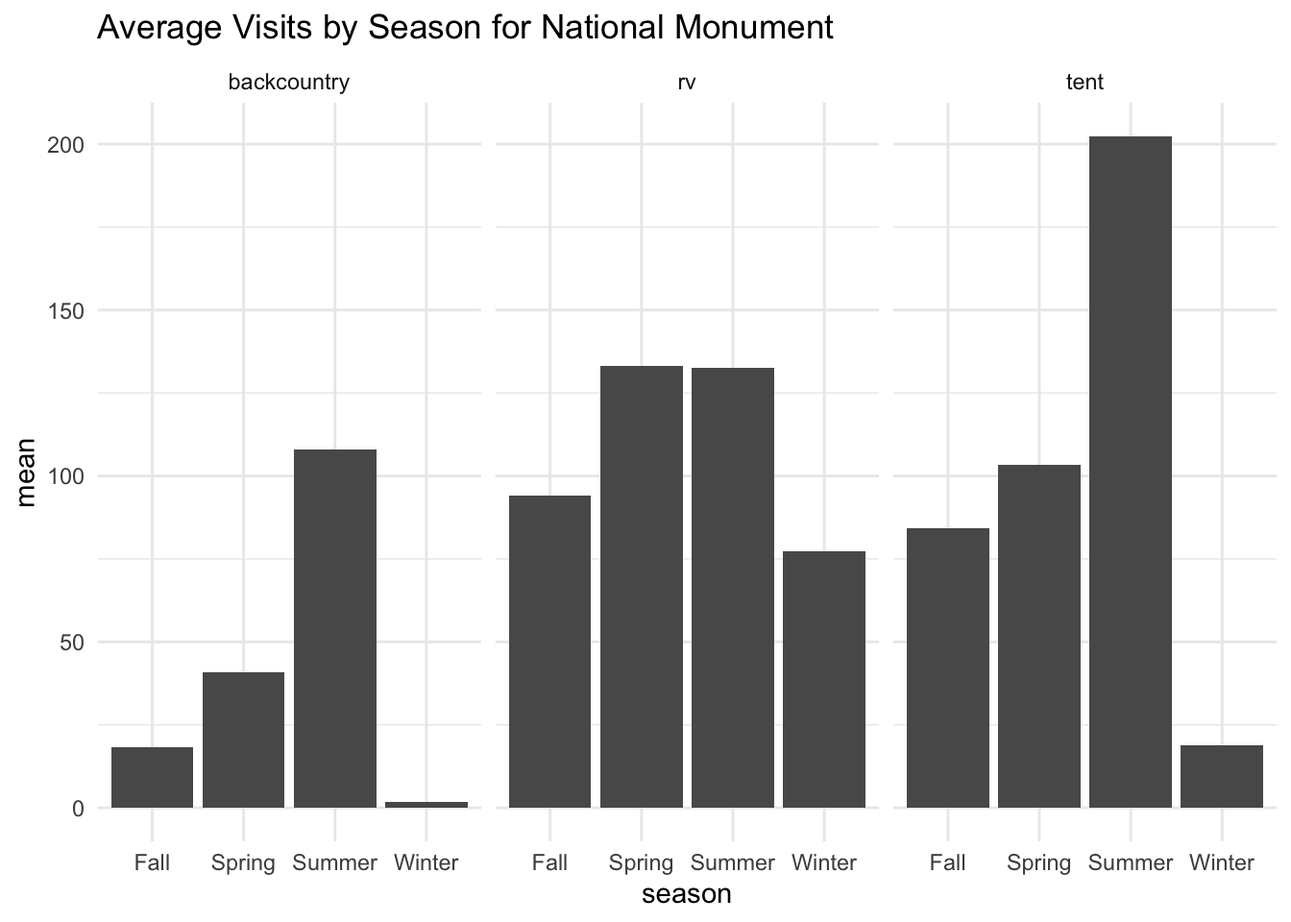
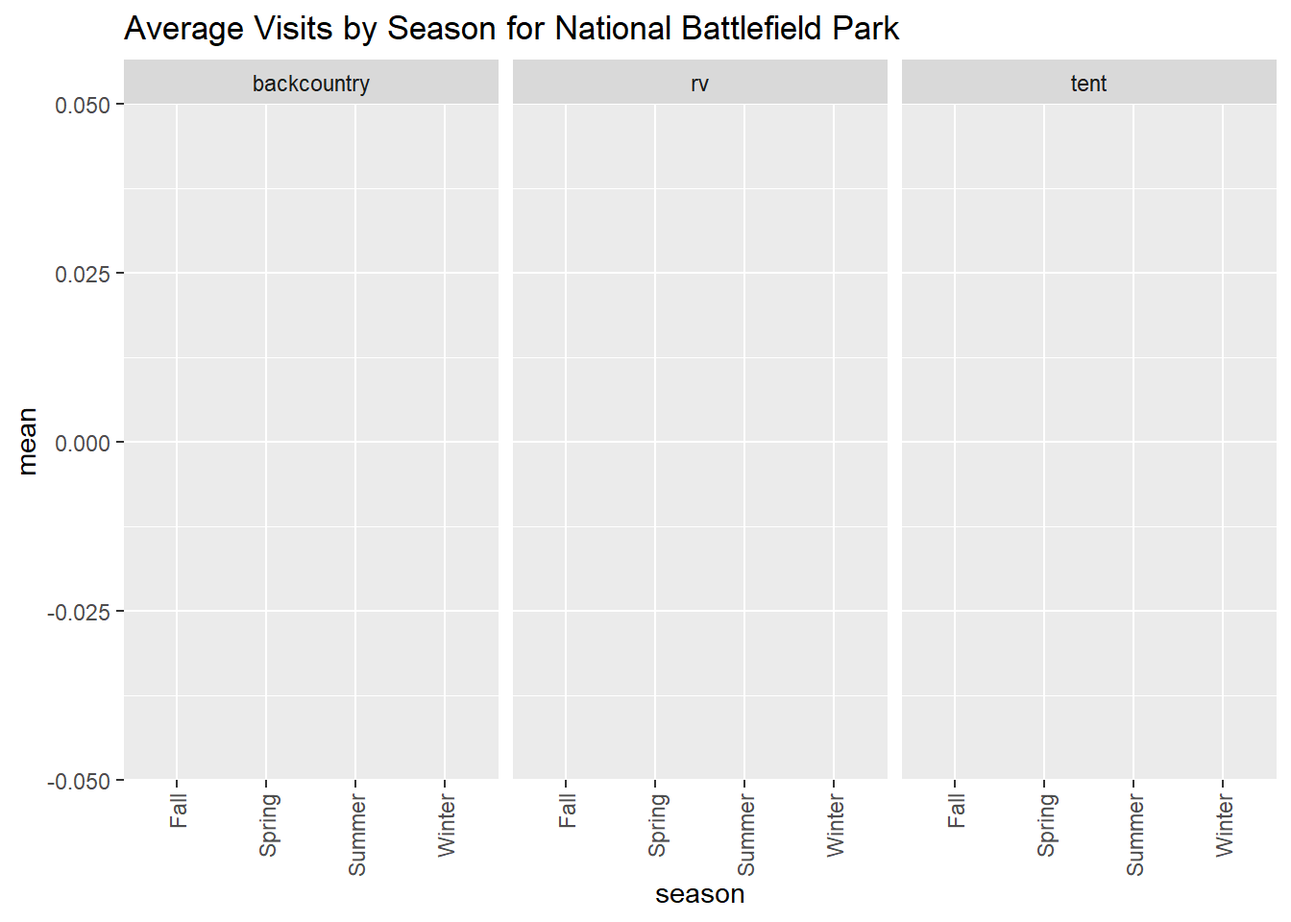
making code more readable

diff --git a/mos2128.html b/mos2128.html
@@ -315,6 +315,8 @@ visitation_data &lt;-
 ## ℹ If a many-to-many relationship is expected, set `relationship =
 ##   &quot;many-to-many&quot;` to silence this warning.</code></pre>
 </div>
+<div id="trends-across-time" class="section level1">
+<h1>Trends across Time</h1>
 <div id="total-trend-by-park-type-across-months" class="section level2">
 <h2>Total Trend by Park Type Across Months</h2>
 <pre class="r"><code>visitation_data %&gt;% 
@@ -327,8 +329,8 @@ plot_ly(x = ~as.factor(month), y = ~total_visitation, type = &quot;scatter&quot;
 ## Returning the palette you asked for with that many colors
 ## Warning in RColorBrewer::brewer.pal(N, &quot;Set2&quot;): n too large, allowed maximum for palette Set2 is 8
 ## Returning the palette you asked for with that many colors</code></pre>
-<div class="plotly html-widget html-fill-item" id="htmlwidget-2bdedae2436f8b7b46d1" style="width:672px;height:480px;"></div>
-<script type="application/json" data-for="htmlwidget-2bdedae2436f8b7b46d1">{"x":{"visdat":{"d2a051065b46":["function () ","plotlyVisDat"]},"cur_data":"d2a051065b46","attrs":{"d2a051065b46":{"x":{},"y":{},"mode":"lines","color":{},"alpha_stroke":1,"sizes":[10,100],"spans":[1,20],"type":"scatter"}},"layout":{"margin":{"b":40,"l":60,"t":25,"r":10},"xaxis":{"domain":[0,1],"automargin":true,"title":"as.factor(month)","type":"category","categoryorder":"array","categoryarray":["1","2","3","4","5","6","7","8","9","10","11","12"]},"yaxis":{"domain":[0,1],"automargin":true,"title":"total_visitation"},"hovermode":"closest","showlegend":true},"source":"A","config":{"modeBarButtonsToAdd":["hoverclosest","hovercompare"],"showSendToCloud":false},"data":[{"x":["1","2","3","4","5","6","7","8","9","10","11","12"],"y":[0,0,0,599,10356,16227,29363,30037,23941,14894,564,0],"mode":"lines","type":"scatter","name":"International Historic Site","marker":{"color":"rgba(102,194,165,1)","line":{"color":"rgba(102,194,165,1)"}},"textfont":{"color":"rgba(102,194,165,1)"},"error_y":{"color":"rgba(102,194,165,1)"},"error_x":{"color":"rgba(102,194,165,1)"},"line":{"color":"rgba(102,194,165,1)"},"xaxis":"x","yaxis":"y","frame":null},{"x":["1","2","3","4","5","6","7","8","9","10","11","12"],"y":[1835700,2000437,2732979,3477536,4231458,4625124,5724189,4699989,4010558,3979299,2628913,2097289],"mode":"lines","type":"scatter","name":"National Battlefield","marker":{"color":"rgba(181,176,137,1)","line":{"color":"rgba(181,176,137,1)"}},"textfont":{"color":"rgba(181,176,137,1)"},"error_y":{"color":"rgba(181,176,137,1)"},"error_x":{"color":"rgba(181,176,137,1)"},"line":{"color":"rgba(181,176,137,1)"},"xaxis":"x","yaxis":"y","frame":null},{"x":["1","2","3","4","5","6","7","8","9","10","11","12"],"y":[3035709,3414777,5457944,6826232,6160369,6226220,6536226,6026670,5931406,5497269,3981241,3068093],"mode":"lines","type":"scatter","name":"National Battlefield Park","marker":{"color":"rgba(233,153,110,1)","line":{"color":"rgba(233,153,110,1)"}},"textfont":{"color":"rgba(233,153,110,1)"},"error_y":{"color":"rgba(233,153,110,1)"},"error_x":{"color":"rgba(233,153,110,1)"},"line":{"color":"rgba(233,153,110,1)"},"xaxis":"x","yaxis":"y","frame":null},{"x":["1","2","3","4","5","6","7","8","9","10","11","12"],"y":[9258412,10193685,15294246,17856912,20207151,22885909,27636356,23779621,16401077,18356705,11748190,10769699],"mode":"lines","type":"scatter","name":"National Historic Site","marker":{"color":"rgba(232,146,123,1)","line":{"color":"rgba(232,146,123,1)"}},"textfont":{"color":"rgba(232,146,123,1)"},"error_y":{"color":"rgba(232,146,123,1)"},"error_x":{"color":"rgba(232,146,123,1)"},"line":{"color":"rgba(232,146,123,1)"},"xaxis":"x","yaxis":"y","frame":null},{"x":["1","2","3","4","5","6","7","8","9","10","11","12"],"y":[31239006,33061664,48684559,61995380,67522052,72278607,90818155,76557594,61023888,60702448,43984138,35531636],"mode":"lines","type":"scatter","name":"National Historical Park","marker":{"color":"rgba(191,154,166,1)","line":{"color":"rgba(191,154,166,1)"}},"textfont":{"color":"rgba(191,154,166,1)"},"error_y":{"color":"rgba(191,154,166,1)"},"error_x":{"color":"rgba(191,154,166,1)"},"line":{"color":"rgba(191,154,166,1)"},"xaxis":"x","yaxis":"y","frame":null},{"x":["1","2","3","4","5","6","7","8","9","10","11","12"],"y":[718521,986098,961710,1005468,2684380,7072850,15230514,13907841,5915613,3446764,716673,503122],"mode":"lines","type":"scatter","name":"National Lakeshore","marker":{"color":"rgba(147,159,203,1)","line":{"color":"rgba(147,159,203,1)"}},"textfont":{"color":"rgba(147,159,203,1)"},"error_y":{"color":"rgba(147,159,203,1)"},"error_x":{"color":"rgba(147,159,203,1)"},"line":{"color":"rgba(147,159,203,1)"},"xaxis":"x","yaxis":"y","frame":null},{"x":["1","2","3","4","5","6","7","8","9","10","11","12"],"y":[26557811,27010352,64765560,86562672,90202453,86519021,89327334,75466667,58890368,61033100,46581490,31888659],"mode":"lines","type":"scatter","name":"National Memorial","marker":{"color":"rgba(187,151,199,1)","line":{"color":"rgba(187,151,199,1)"}},"textfont":{"color":"rgba(187,151,199,1)"},"error_y":{"color":"rgba(187,151,199,1)"},"error_x":{"color":"rgba(187,151,199,1)"},"line":{"color":"rgba(187,151,199,1)"},"xaxis":"x","yaxis":"y","frame":null},{"x":["1","2","3","4","5","6","7","8","9","10","11","12"],"y":[5298439,5716701,9060144,11088267,12494668,12391930,13277112,10872010,9658933,10369806,7722062,5650839],"mode":"lines","type":"scatter","name":"National Military Park","marker":{"color":"rgba(222,141,196,1)","line":{"color":"rgba(222,141,196,1)"}},"textfont":{"color":"rgba(222,141,196,1)"},"error_y":{"color":"rgba(222,141,196,1)"},"error_x":{"color":"rgba(222,141,196,1)"},"line":{"color":"rgba(222,141,196,1)"},"xaxis":"x","yaxis":"y","frame":null},{"x":["1","2","3","4","5","6","7","8","9","10","11","12"],"y":[18255494,19593353,30867609,36687183,42767694,57835315,65449387,58924783,42811746,35270827,25462313,22950541],"mode":"lines","type":"scatter","name":"National Monument","marker":{"color":"rgba(217,164,165,1)","line":{"color":"rgba(217,164,165,1)"}},"textfont":{"color":"rgba(217,164,165,1)"},"error_y":{"color":"rgba(217,164,165,1)"},"error_x":{"color":"rgba(217,164,165,1)"},"line":{"color":"rgba(217,164,165,1)"},"xaxis":"x","yaxis":"y","frame":null},{"x":["1","2","3","4","5","6","7","8","9","10","11","12"],"y":[59236940,62808138,97933207,113157293,158894664,232320856,297636201,266671400,201579579,154105436,86602317,67460177],"mode":"lines","type":"scatter","name":"National Park","marker":{"color":"rgba(191,196,121,1)","line":{"color":"rgba(191,196,121,1)"}},"textfont":{"color":"rgba(191,196,121,1)"},"error_y":{"color":"rgba(191,196,121,1)"},"error_x":{"color":"rgba(191,196,121,1)"},"line":{"color":"rgba(191,196,121,1)"},"xaxis":"x","yaxis":"y","frame":null},{"x":["1","2","3","4","5","6","7","8","9","10","11","12"],"y":[30285562,31606136,43107457,58279104,68077913,83109235,89097710,86164579,77431897,78627098,58225525,37576708],"mode":"lines","type":"scatter","name":"National Parkway","marker":{"color":"rgba(178,216,80,1)","line":{"color":"rgba(178,216,80,1)"}},"textfont":{"color":"rgba(178,216,80,1)"},"error_y":{"color":"rgba(178,216,80,1)"},"error_x":{"color":"rgba(178,216,80,1)"},"line":{"color":"rgba(178,216,80,1)"},"xaxis":"x","yaxis":"y","frame":null},{"x":["1","2","3","4","5","6","7","8","9","10","11","12"],"y":[5878090,6674191,7270922,6687822,6626398,6514302,6863025,5528451,5096785,5924038,6572170,6052652],"mode":"lines","type":"scatter","name":"National Preserve","marker":{"color":"rgba(215,217,67,1)","line":{"color":"rgba(215,217,67,1)"}},"textfont":{"color":"rgba(215,217,67,1)"},"error_y":{"color":"rgba(215,217,67,1)"},"error_x":{"color":"rgba(215,217,67,1)"},"line":{"color":"rgba(215,217,67,1)"},"xaxis":"x","yaxis":"y","frame":null},{"x":["1","2","3","4","5","6","7","8","9","10","11","12"],"y":[61630736,65071163,80547578,91957344,111197887,134439990,148560538,137247131,109967246,90198310,74222212,62233895],"mode":"lines","type":"scatter","name":"National Recreation Area","marker":{"color":"rgba(250,217,50,1)","line":{"color":"rgba(250,217,50,1)"}},"textfont":{"color":"rgba(250,217,50,1)"},"error_y":{"color":"rgba(250,217,50,1)"},"error_x":{"color":"rgba(250,217,50,1)"},"line":{"color":"rgba(250,217,50,1)"},"xaxis":"x","yaxis":"y","frame":null},{"x":["1","2","3","4","5","6","7","8","9","10","11","12"],"y":[16676,15989,30495,106134,317856,382603,315811,296962,319773,246372,115628,56958],"mode":"lines","type":"scatter","name":"National Reserve","marker":{"color":"rgba(247,209,91,1)","line":{"color":"rgba(247,209,91,1)"}},"textfont":{"color":"rgba(247,209,91,1)"},"error_y":{"color":"rgba(247,209,91,1)"},"error_x":{"color":"rgba(247,209,91,1)"},"line":{"color":"rgba(247,209,91,1)"},"xaxis":"x","yaxis":"y","frame":null},{"x":["1","2","3","4","5","6","7","8","9","10","11","12"],"y":[2168489,2230975,4168130,5703574,8562306,12915137,14069859,11498152,8043638,6277573,4354400,2811624],"mode":"lines","type":"scatter","name":"National River","marker":{"color":"rgba(236,201,129,1)","line":{"color":"rgba(236,201,129,1)"}},"textfont":{"color":"rgba(236,201,129,1)"},"error_y":{"color":"rgba(236,201,129,1)"},"error_x":{"color":"rgba(236,201,129,1)"},"line":{"color":"rgba(236,201,129,1)"},"xaxis":"x","yaxis":"y","frame":null},{"x":["1","2","3","4","5","6","7","8","9","10","11","12"],"y":[17821304,19525799,27834322,33203275,42075207,53308675,69195472,64828994,44362725,32102519,23463637,18932104],"mode":"lines","type":"scatter","name":"National Seashore","marker":{"color":"rgba(221,193,154,1)","line":{"color":"rgba(221,193,154,1)"}},"textfont":{"color":"rgba(221,193,154,1)"},"error_y":{"color":"rgba(221,193,154,1)"},"error_x":{"color":"rgba(221,193,154,1)"},"line":{"color":"rgba(221,193,154,1)"},"xaxis":"x","yaxis":"y","frame":null},{"x":["1","2","3","4","5","6","7","8","9","10","11","12"],"y":[462761,451797,645232,1309304,2839267,4275237,6565939,6094566,3599440,1589023,705617,527685],"mode":"lines","type":"scatter","name":"National Wild & Scenic River","marker":{"color":"rgba(201,186,167,1)","line":{"color":"rgba(201,186,167,1)"}},"textfont":{"color":"rgba(201,186,167,1)"},"error_y":{"color":"rgba(201,186,167,1)"},"error_x":{"color":"rgba(201,186,167,1)"},"line":{"color":"rgba(201,186,167,1)"},"xaxis":"x","yaxis":"y","frame":null},{"x":["1","2","3","4","5","6","7","8","9","10","11","12"],"y":[10325188,7658954,13505529,21666637,18569279,22616232,29413856,23014639,17782685,16060519,10707291,12471296],"mode":"lines","type":"scatter","name":"Park (Other)","marker":{"color":"rgba(179,179,179,1)","line":{"color":"rgba(179,179,179,1)"}},"textfont":{"color":"rgba(179,179,179,1)"},"error_y":{"color":"rgba(179,179,179,1)"},"error_x":{"color":"rgba(179,179,179,1)"},"line":{"color":"rgba(179,179,179,1)"},"xaxis":"x","yaxis":"y","frame":null}],"highlight":{"on":"plotly_click","persistent":false,"dynamic":false,"selectize":false,"opacityDim":0.20000000000000001,"selected":{"opacity":1},"debounce":0},"shinyEvents":["plotly_hover","plotly_click","plotly_selected","plotly_relayout","plotly_brushed","plotly_brushing","plotly_clickannotation","plotly_doubleclick","plotly_deselect","plotly_afterplot","plotly_sunburstclick"],"base_url":"https://plot.ly"},"evals":[],"jsHooks":[]}</script>
+<div class="plotly html-widget html-fill-item" id="htmlwidget-fc1608bef4bcbe43e8ed" style="width:672px;height:480px;"></div>
+<script type="application/json" data-for="htmlwidget-fc1608bef4bcbe43e8ed">{"x":{"visdat":{"e1f0260d63d9":["function () ","plotlyVisDat"]},"cur_data":"e1f0260d63d9","attrs":{"e1f0260d63d9":{"x":{},"y":{},"mode":"lines","color":{},"alpha_stroke":1,"sizes":[10,100],"spans":[1,20],"type":"scatter"}},"layout":{"margin":{"b":40,"l":60,"t":25,"r":10},"xaxis":{"domain":[0,1],"automargin":true,"title":"as.factor(month)","type":"category","categoryorder":"array","categoryarray":["1","2","3","4","5","6","7","8","9","10","11","12"]},"yaxis":{"domain":[0,1],"automargin":true,"title":"total_visitation"},"hovermode":"closest","showlegend":true},"source":"A","config":{"modeBarButtonsToAdd":["hoverclosest","hovercompare"],"showSendToCloud":false},"data":[{"x":["1","2","3","4","5","6","7","8","9","10","11","12"],"y":[0,0,0,599,10356,16227,29363,30037,23941,14894,564,0],"mode":"lines","type":"scatter","name":"International Historic Site","marker":{"color":"rgba(102,194,165,1)","line":{"color":"rgba(102,194,165,1)"}},"textfont":{"color":"rgba(102,194,165,1)"},"error_y":{"color":"rgba(102,194,165,1)"},"error_x":{"color":"rgba(102,194,165,1)"},"line":{"color":"rgba(102,194,165,1)"},"xaxis":"x","yaxis":"y","frame":null},{"x":["1","2","3","4","5","6","7","8","9","10","11","12"],"y":[1835700,2000437,2732979,3477536,4231458,4625124,5724189,4699989,4010558,3979299,2628913,2097289],"mode":"lines","type":"scatter","name":"National Battlefield","marker":{"color":"rgba(181,176,137,1)","line":{"color":"rgba(181,176,137,1)"}},"textfont":{"color":"rgba(181,176,137,1)"},"error_y":{"color":"rgba(181,176,137,1)"},"error_x":{"color":"rgba(181,176,137,1)"},"line":{"color":"rgba(181,176,137,1)"},"xaxis":"x","yaxis":"y","frame":null},{"x":["1","2","3","4","5","6","7","8","9","10","11","12"],"y":[3035709,3414777,5457944,6826232,6160369,6226220,6536226,6026670,5931406,5497269,3981241,3068093],"mode":"lines","type":"scatter","name":"National Battlefield Park","marker":{"color":"rgba(233,153,110,1)","line":{"color":"rgba(233,153,110,1)"}},"textfont":{"color":"rgba(233,153,110,1)"},"error_y":{"color":"rgba(233,153,110,1)"},"error_x":{"color":"rgba(233,153,110,1)"},"line":{"color":"rgba(233,153,110,1)"},"xaxis":"x","yaxis":"y","frame":null},{"x":["1","2","3","4","5","6","7","8","9","10","11","12"],"y":[9258412,10193685,15294246,17856912,20207151,22885909,27636356,23779621,16401077,18356705,11748190,10769699],"mode":"lines","type":"scatter","name":"National Historic Site","marker":{"color":"rgba(232,146,123,1)","line":{"color":"rgba(232,146,123,1)"}},"textfont":{"color":"rgba(232,146,123,1)"},"error_y":{"color":"rgba(232,146,123,1)"},"error_x":{"color":"rgba(232,146,123,1)"},"line":{"color":"rgba(232,146,123,1)"},"xaxis":"x","yaxis":"y","frame":null},{"x":["1","2","3","4","5","6","7","8","9","10","11","12"],"y":[31239006,33061664,48684559,61995380,67522052,72278607,90818155,76557594,61023888,60702448,43984138,35531636],"mode":"lines","type":"scatter","name":"National Historical Park","marker":{"color":"rgba(191,154,166,1)","line":{"color":"rgba(191,154,166,1)"}},"textfont":{"color":"rgba(191,154,166,1)"},"error_y":{"color":"rgba(191,154,166,1)"},"error_x":{"color":"rgba(191,154,166,1)"},"line":{"color":"rgba(191,154,166,1)"},"xaxis":"x","yaxis":"y","frame":null},{"x":["1","2","3","4","5","6","7","8","9","10","11","12"],"y":[718521,986098,961710,1005468,2684380,7072850,15230514,13907841,5915613,3446764,716673,503122],"mode":"lines","type":"scatter","name":"National Lakeshore","marker":{"color":"rgba(147,159,203,1)","line":{"color":"rgba(147,159,203,1)"}},"textfont":{"color":"rgba(147,159,203,1)"},"error_y":{"color":"rgba(147,159,203,1)"},"error_x":{"color":"rgba(147,159,203,1)"},"line":{"color":"rgba(147,159,203,1)"},"xaxis":"x","yaxis":"y","frame":null},{"x":["1","2","3","4","5","6","7","8","9","10","11","12"],"y":[26557811,27010352,64765560,86562672,90202453,86519021,89327334,75466667,58890368,61033100,46581490,31888659],"mode":"lines","type":"scatter","name":"National Memorial","marker":{"color":"rgba(187,151,199,1)","line":{"color":"rgba(187,151,199,1)"}},"textfont":{"color":"rgba(187,151,199,1)"},"error_y":{"color":"rgba(187,151,199,1)"},"error_x":{"color":"rgba(187,151,199,1)"},"line":{"color":"rgba(187,151,199,1)"},"xaxis":"x","yaxis":"y","frame":null},{"x":["1","2","3","4","5","6","7","8","9","10","11","12"],"y":[5298439,5716701,9060144,11088267,12494668,12391930,13277112,10872010,9658933,10369806,7722062,5650839],"mode":"lines","type":"scatter","name":"National Military Park","marker":{"color":"rgba(222,141,196,1)","line":{"color":"rgba(222,141,196,1)"}},"textfont":{"color":"rgba(222,141,196,1)"},"error_y":{"color":"rgba(222,141,196,1)"},"error_x":{"color":"rgba(222,141,196,1)"},"line":{"color":"rgba(222,141,196,1)"},"xaxis":"x","yaxis":"y","frame":null},{"x":["1","2","3","4","5","6","7","8","9","10","11","12"],"y":[18255494,19593353,30867609,36687183,42767694,57835315,65449387,58924783,42811746,35270827,25462313,22950541],"mode":"lines","type":"scatter","name":"National Monument","marker":{"color":"rgba(217,164,165,1)","line":{"color":"rgba(217,164,165,1)"}},"textfont":{"color":"rgba(217,164,165,1)"},"error_y":{"color":"rgba(217,164,165,1)"},"error_x":{"color":"rgba(217,164,165,1)"},"line":{"color":"rgba(217,164,165,1)"},"xaxis":"x","yaxis":"y","frame":null},{"x":["1","2","3","4","5","6","7","8","9","10","11","12"],"y":[59236940,62808138,97933207,113157293,158894664,232320856,297636201,266671400,201579579,154105436,86602317,67460177],"mode":"lines","type":"scatter","name":"National Park","marker":{"color":"rgba(191,196,121,1)","line":{"color":"rgba(191,196,121,1)"}},"textfont":{"color":"rgba(191,196,121,1)"},"error_y":{"color":"rgba(191,196,121,1)"},"error_x":{"color":"rgba(191,196,121,1)"},"line":{"color":"rgba(191,196,121,1)"},"xaxis":"x","yaxis":"y","frame":null},{"x":["1","2","3","4","5","6","7","8","9","10","11","12"],"y":[30285562,31606136,43107457,58279104,68077913,83109235,89097710,86164579,77431897,78627098,58225525,37576708],"mode":"lines","type":"scatter","name":"National Parkway","marker":{"color":"rgba(178,216,80,1)","line":{"color":"rgba(178,216,80,1)"}},"textfont":{"color":"rgba(178,216,80,1)"},"error_y":{"color":"rgba(178,216,80,1)"},"error_x":{"color":"rgba(178,216,80,1)"},"line":{"color":"rgba(178,216,80,1)"},"xaxis":"x","yaxis":"y","frame":null},{"x":["1","2","3","4","5","6","7","8","9","10","11","12"],"y":[5878090,6674191,7270922,6687822,6626398,6514302,6863025,5528451,5096785,5924038,6572170,6052652],"mode":"lines","type":"scatter","name":"National Preserve","marker":{"color":"rgba(215,217,67,1)","line":{"color":"rgba(215,217,67,1)"}},"textfont":{"color":"rgba(215,217,67,1)"},"error_y":{"color":"rgba(215,217,67,1)"},"error_x":{"color":"rgba(215,217,67,1)"},"line":{"color":"rgba(215,217,67,1)"},"xaxis":"x","yaxis":"y","frame":null},{"x":["1","2","3","4","5","6","7","8","9","10","11","12"],"y":[61630736,65071163,80547578,91957344,111197887,134439990,148560538,137247131,109967246,90198310,74222212,62233895],"mode":"lines","type":"scatter","name":"National Recreation Area","marker":{"color":"rgba(250,217,50,1)","line":{"color":"rgba(250,217,50,1)"}},"textfont":{"color":"rgba(250,217,50,1)"},"error_y":{"color":"rgba(250,217,50,1)"},"error_x":{"color":"rgba(250,217,50,1)"},"line":{"color":"rgba(250,217,50,1)"},"xaxis":"x","yaxis":"y","frame":null},{"x":["1","2","3","4","5","6","7","8","9","10","11","12"],"y":[16676,15989,30495,106134,317856,382603,315811,296962,319773,246372,115628,56958],"mode":"lines","type":"scatter","name":"National Reserve","marker":{"color":"rgba(247,209,91,1)","line":{"color":"rgba(247,209,91,1)"}},"textfont":{"color":"rgba(247,209,91,1)"},"error_y":{"color":"rgba(247,209,91,1)"},"error_x":{"color":"rgba(247,209,91,1)"},"line":{"color":"rgba(247,209,91,1)"},"xaxis":"x","yaxis":"y","frame":null},{"x":["1","2","3","4","5","6","7","8","9","10","11","12"],"y":[2168489,2230975,4168130,5703574,8562306,12915137,14069859,11498152,8043638,6277573,4354400,2811624],"mode":"lines","type":"scatter","name":"National River","marker":{"color":"rgba(236,201,129,1)","line":{"color":"rgba(236,201,129,1)"}},"textfont":{"color":"rgba(236,201,129,1)"},"error_y":{"color":"rgba(236,201,129,1)"},"error_x":{"color":"rgba(236,201,129,1)"},"line":{"color":"rgba(236,201,129,1)"},"xaxis":"x","yaxis":"y","frame":null},{"x":["1","2","3","4","5","6","7","8","9","10","11","12"],"y":[17821304,19525799,27834322,33203275,42075207,53308675,69195472,64828994,44362725,32102519,23463637,18932104],"mode":"lines","type":"scatter","name":"National Seashore","marker":{"color":"rgba(221,193,154,1)","line":{"color":"rgba(221,193,154,1)"}},"textfont":{"color":"rgba(221,193,154,1)"},"error_y":{"color":"rgba(221,193,154,1)"},"error_x":{"color":"rgba(221,193,154,1)"},"line":{"color":"rgba(221,193,154,1)"},"xaxis":"x","yaxis":"y","frame":null},{"x":["1","2","3","4","5","6","7","8","9","10","11","12"],"y":[462761,451797,645232,1309304,2839267,4275237,6565939,6094566,3599440,1589023,705617,527685],"mode":"lines","type":"scatter","name":"National Wild & Scenic River","marker":{"color":"rgba(201,186,167,1)","line":{"color":"rgba(201,186,167,1)"}},"textfont":{"color":"rgba(201,186,167,1)"},"error_y":{"color":"rgba(201,186,167,1)"},"error_x":{"color":"rgba(201,186,167,1)"},"line":{"color":"rgba(201,186,167,1)"},"xaxis":"x","yaxis":"y","frame":null},{"x":["1","2","3","4","5","6","7","8","9","10","11","12"],"y":[10325188,7658954,13505529,21666637,18569279,22616232,29413856,23014639,17782685,16060519,10707291,12471296],"mode":"lines","type":"scatter","name":"Park (Other)","marker":{"color":"rgba(179,179,179,1)","line":{"color":"rgba(179,179,179,1)"}},"textfont":{"color":"rgba(179,179,179,1)"},"error_y":{"color":"rgba(179,179,179,1)"},"error_x":{"color":"rgba(179,179,179,1)"},"line":{"color":"rgba(179,179,179,1)"},"xaxis":"x","yaxis":"y","frame":null}],"highlight":{"on":"plotly_click","persistent":false,"dynamic":false,"selectize":false,"opacityDim":0.20000000000000001,"selected":{"opacity":1},"debounce":0},"shinyEvents":["plotly_hover","plotly_click","plotly_selected","plotly_relayout","plotly_brushed","plotly_brushing","plotly_clickannotation","plotly_doubleclick","plotly_deselect","plotly_afterplot","plotly_sunburstclick"],"base_url":"https://plot.ly"},"evals":[],"jsHooks":[]}</script>
 <pre class="r"><code>visitation_data %&gt;% 
   group_by(park_type) %&gt;% 
   summarize(parks = n_distinct(full_name)) %&gt;% knitr::kable()</code></pre>
@@ -446,8 +448,8 @@ visitation types and by season.</p>
     names_prefix = &quot;total_&quot;
   ) %&gt;% 
   plot_ly(x = ~season, y = ~total_visit, color = ~type_visit, type = &quot;bar&quot;)</code></pre>
-<div class="plotly html-widget html-fill-item" id="htmlwidget-7d60eb9cf2fcbc181291" style="width:672px;height:480px;"></div>
-<script type="application/json" data-for="htmlwidget-7d60eb9cf2fcbc181291">{"x":{"visdat":{"d2a033a357ed":["function () ","plotlyVisDat"]},"cur_data":"d2a033a357ed","attrs":{"d2a033a357ed":{"x":{},"y":{},"color":{},"alpha_stroke":1,"sizes":[10,100],"spans":[1,20],"type":"bar"}},"layout":{"margin":{"b":40,"l":60,"t":25,"r":10},"xaxis":{"domain":[0,1],"automargin":true,"title":"season","type":"category","categoryorder":"array","categoryarray":["Fall","Spring","Summer","Winter"]},"yaxis":{"domain":[0,1],"automargin":true,"title":"total_visit"},"hovermode":"closest","showlegend":true},"source":"A","config":{"modeBarButtonsToAdd":["hoverclosest","hovercompare"],"showSendToCloud":false},"data":[{"x":["Fall","Spring","Summer","Winter"],"y":[8923850,8870832,21967980,2612085],"type":"bar","name":"backcountry_visits","marker":{"color":"rgba(102,194,165,1)","line":{"color":"rgba(102,194,165,1)"}},"textfont":{"color":"rgba(102,194,165,1)"},"error_y":{"color":"rgba(102,194,165,1)"},"error_x":{"color":"rgba(102,194,165,1)"},"xaxis":"x","yaxis":"y","frame":null},{"x":["Fall","Spring","Summer","Winter"],"y":[13598415,11347748,23984404,4817747],"type":"bar","name":"rv","marker":{"color":"rgba(252,141,98,1)","line":{"color":"rgba(252,141,98,1)"}},"textfont":{"color":"rgba(252,141,98,1)"},"error_y":{"color":"rgba(252,141,98,1)"},"error_x":{"color":"rgba(252,141,98,1)"},"xaxis":"x","yaxis":"y","frame":null},{"x":["Fall","Spring","Summer","Winter"],"y":[16583988,14005002,42337056,3754069],"type":"bar","name":"tent","marker":{"color":"rgba(141,160,203,1)","line":{"color":"rgba(141,160,203,1)"}},"textfont":{"color":"rgba(141,160,203,1)"},"error_y":{"color":"rgba(141,160,203,1)"},"error_x":{"color":"rgba(141,160,203,1)"},"xaxis":"x","yaxis":"y","frame":null}],"highlight":{"on":"plotly_click","persistent":false,"dynamic":false,"selectize":false,"opacityDim":0.20000000000000001,"selected":{"opacity":1},"debounce":0},"shinyEvents":["plotly_hover","plotly_click","plotly_selected","plotly_relayout","plotly_brushed","plotly_brushing","plotly_clickannotation","plotly_doubleclick","plotly_deselect","plotly_afterplot","plotly_sunburstclick"],"base_url":"https://plot.ly"},"evals":[],"jsHooks":[]}</script>
+<div class="plotly html-widget html-fill-item" id="htmlwidget-dd9f44abc9b836f64ce7" style="width:672px;height:480px;"></div>
+<script type="application/json" data-for="htmlwidget-dd9f44abc9b836f64ce7">{"x":{"visdat":{"e1f0f32bba":["function () ","plotlyVisDat"]},"cur_data":"e1f0f32bba","attrs":{"e1f0f32bba":{"x":{},"y":{},"color":{},"alpha_stroke":1,"sizes":[10,100],"spans":[1,20],"type":"bar"}},"layout":{"margin":{"b":40,"l":60,"t":25,"r":10},"xaxis":{"domain":[0,1],"automargin":true,"title":"season","type":"category","categoryorder":"array","categoryarray":["Fall","Spring","Summer","Winter"]},"yaxis":{"domain":[0,1],"automargin":true,"title":"total_visit"},"hovermode":"closest","showlegend":true},"source":"A","config":{"modeBarButtonsToAdd":["hoverclosest","hovercompare"],"showSendToCloud":false},"data":[{"x":["Fall","Spring","Summer","Winter"],"y":[8923850,8870832,21967980,2612085],"type":"bar","name":"backcountry_visits","marker":{"color":"rgba(102,194,165,1)","line":{"color":"rgba(102,194,165,1)"}},"textfont":{"color":"rgba(102,194,165,1)"},"error_y":{"color":"rgba(102,194,165,1)"},"error_x":{"color":"rgba(102,194,165,1)"},"xaxis":"x","yaxis":"y","frame":null},{"x":["Fall","Spring","Summer","Winter"],"y":[13598415,11347748,23984404,4817747],"type":"bar","name":"rv","marker":{"color":"rgba(252,141,98,1)","line":{"color":"rgba(252,141,98,1)"}},"textfont":{"color":"rgba(252,141,98,1)"},"error_y":{"color":"rgba(252,141,98,1)"},"error_x":{"color":"rgba(252,141,98,1)"},"xaxis":"x","yaxis":"y","frame":null},{"x":["Fall","Spring","Summer","Winter"],"y":[16583988,14005002,42337056,3754069],"type":"bar","name":"tent","marker":{"color":"rgba(141,160,203,1)","line":{"color":"rgba(141,160,203,1)"}},"textfont":{"color":"rgba(141,160,203,1)"},"error_y":{"color":"rgba(141,160,203,1)"},"error_x":{"color":"rgba(141,160,203,1)"},"xaxis":"x","yaxis":"y","frame":null}],"highlight":{"on":"plotly_click","persistent":false,"dynamic":false,"selectize":false,"opacityDim":0.20000000000000001,"selected":{"opacity":1},"debounce":0},"shinyEvents":["plotly_hover","plotly_click","plotly_selected","plotly_relayout","plotly_brushed","plotly_brushing","plotly_clickannotation","plotly_doubleclick","plotly_deselect","plotly_afterplot","plotly_sunburstclick"],"base_url":"https://plot.ly"},"evals":[],"jsHooks":[]}</script>
 <p>In fall, winter, and spring, the highest visitation is
 <code>tent_campers</code>, with a peak summer. Interestingly and
 unsurprisingly, the highest visitation in winter is
@@ -1014,6 +1016,7 @@ plots &lt;- list()
 
 for (i in seq_along(park_types)) {
   visit_summary &lt;- visitation_data %&gt;% 
+    drop_na() %&gt;% 
     filter(park_type == park_types[i]) %&gt;% 
     mutate(season = case_when(
       month %in% c(12, 1, 2) ~ &quot;Winter&quot;, 
@@ -1033,146 +1036,78 @@ for (i in seq_along(park_types)) {
       values_to = &quot;mean&quot;, 
       names_prefix = &quot;mean_&quot;
     ) 
-  
-
   plots[[i]] &lt;- ggplot(visit_summary, aes(x = season, y = mean)) + 
-    geom_col() + facet_grid(~type_visit) +
-    ggtitle(paste(&quot;Average Visits by Season for&quot;, park_types[i]))
-}
-
-plots</code></pre>
+    geom_col() + 
+    facet_grid(~type_visit) +
+    ggtitle(paste(&quot;Average Visits by Season for&quot;, park_types[i])) + 
+    theme(axis.text.x = element_text(angle = 90, vjust = 0.5, hjust = 1))
+} </code></pre>
+</div>
+<div id="no-visitation" class="section level2">
+<h2>No Visitation</h2>
+<pre class="r"><code>plots[4]</code></pre>
 <pre><code>## [[1]]</code></pre>
-<p><img src="mos2128_files/figure-html/unnamed-chunk-10-1.png" width="672" /></p>
-<pre><code>## 
-## [[2]]</code></pre>
-<p><img src="mos2128_files/figure-html/unnamed-chunk-10-2.png" width="672" /></p>
-<pre><code>## 
-## [[3]]</code></pre>
-<p><img src="mos2128_files/figure-html/unnamed-chunk-10-3.png" width="672" /></p>
-<pre><code>## 
-## [[4]]</code></pre>
-<p><img src="mos2128_files/figure-html/unnamed-chunk-10-4.png" width="672" /></p>
-<pre><code>## 
-## [[5]]</code></pre>
-<p><img src="mos2128_files/figure-html/unnamed-chunk-10-5.png" width="672" /></p>
-<pre><code>## 
-## [[6]]</code></pre>
-<p><img src="mos2128_files/figure-html/unnamed-chunk-10-6.png" width="672" /></p>
-<pre><code>## 
-## [[7]]</code></pre>
-<p><img src="mos2128_files/figure-html/unnamed-chunk-10-7.png" width="672" /></p>
-<pre><code>## 
-## [[8]]</code></pre>
-<p><img src="mos2128_files/figure-html/unnamed-chunk-10-8.png" width="672" /></p>
-<pre><code>## 
-## [[9]]</code></pre>
-<p><img src="mos2128_files/figure-html/unnamed-chunk-10-9.png" width="672" /></p>
-<pre><code>## 
-## [[10]]</code></pre>
-<p><img src="mos2128_files/figure-html/unnamed-chunk-10-10.png" width="672" /></p>
-<pre><code>## 
-## [[11]]</code></pre>
-<p><img src="mos2128_files/figure-html/unnamed-chunk-10-11.png" width="672" /></p>
-<pre><code>## 
-## [[12]]</code></pre>
-<p><img src="mos2128_files/figure-html/unnamed-chunk-10-12.png" width="672" /></p>
-<pre><code>## 
-## [[13]]</code></pre>
-<p><img src="mos2128_files/figure-html/unnamed-chunk-10-13.png" width="672" /></p>
-<pre><code>## 
-## [[14]]</code></pre>
-<p><img src="mos2128_files/figure-html/unnamed-chunk-10-14.png" width="672" /></p>
-<pre><code>## 
-## [[15]]</code></pre>
-<p><img src="mos2128_files/figure-html/unnamed-chunk-10-15.png" width="672" /></p>
-<pre><code>## 
-## [[16]]</code></pre>
-<p><img src="mos2128_files/figure-html/unnamed-chunk-10-16.png" width="672" /></p>
-<pre><code>## 
-## [[17]]</code></pre>
-<p><img src="mos2128_files/figure-html/unnamed-chunk-10-17.png" width="672" /></p>
-<pre><code>## 
-## [[18]]</code></pre>
-<p><img src="mos2128_files/figure-html/unnamed-chunk-10-18.png" width="672" /></p>
-<pre class="r"><code>park_types &lt;- unique(visitation_data$park_type)
-plots &lt;- list()
-for (i in seq_along(park_types)) {
-plots[[i]] &lt;- visitation_data %&gt;% 
-    filter(park_type == park_types[i]) %&gt;% 
-    mutate(season = case_when(
-      month %in% c(12, 1, 2) ~ &quot;Winter&quot;, 
-      month %in% c(3, 4, 5) ~ &quot;Spring&quot;, 
-      month %in% c(6, 7, 8) ~ &quot;Summer&quot;, 
-      TRUE ~ &quot;Fall&quot;
-    )) %&gt;% 
-    group_by(season) %&gt;%
-    summarize(avg_visits = mean(recreation_visits, na.rm = TRUE)) %&gt;%
-    ggplot(aes(x = season, y = avg_visits, fill = season)) +
-    geom_col() +
-    ggtitle(paste(&quot;Average Visits by Season for&quot;, park_types[i])) 
-} 
-plots</code></pre>
+<p><img src="mos2128_files/figure-html/unnamed-chunk-11-1.png" width="672" /></p>
+<pre class="r"><code>plots[8]</code></pre>
 <pre><code>## [[1]]</code></pre>
-<p><img src="mos2128_files/figure-html/unnamed-chunk-10-19.png" width="672" /></p>
-<pre><code>## 
-## [[2]]</code></pre>
-<p><img src="mos2128_files/figure-html/unnamed-chunk-10-20.png" width="672" /></p>
-<pre><code>## 
-## [[3]]</code></pre>
-<p><img src="mos2128_files/figure-html/unnamed-chunk-10-21.png" width="672" /></p>
-<pre><code>## 
-## [[4]]</code></pre>
-<p><img src="mos2128_files/figure-html/unnamed-chunk-10-22.png" width="672" /></p>
-<pre><code>## 
-## [[5]]</code></pre>
-<p><img src="mos2128_files/figure-html/unnamed-chunk-10-23.png" width="672" /></p>
-<pre><code>## 
-## [[6]]</code></pre>
-<p><img src="mos2128_files/figure-html/unnamed-chunk-10-24.png" width="672" /></p>
-<pre><code>## 
-## [[7]]</code></pre>
-<p><img src="mos2128_files/figure-html/unnamed-chunk-10-25.png" width="672" /></p>
-<pre><code>## 
-## [[8]]</code></pre>
-<p><img src="mos2128_files/figure-html/unnamed-chunk-10-26.png" width="672" /></p>
-<pre><code>## 
-## [[9]]</code></pre>
-<p><img src="mos2128_files/figure-html/unnamed-chunk-10-27.png" width="672" /></p>
-<pre><code>## 
-## [[10]]</code></pre>
-<p><img src="mos2128_files/figure-html/unnamed-chunk-10-28.png" width="672" /></p>
-<pre><code>## 
-## [[11]]</code></pre>
-<p><img src="mos2128_files/figure-html/unnamed-chunk-10-29.png" width="672" /></p>
-<pre><code>## 
-## [[12]]</code></pre>
-<p><img src="mos2128_files/figure-html/unnamed-chunk-10-30.png" width="672" /></p>
-<pre><code>## 
-## [[13]]</code></pre>
-<p><img src="mos2128_files/figure-html/unnamed-chunk-10-31.png" width="672" /></p>
-<pre><code>## 
-## [[14]]</code></pre>
-<p><img src="mos2128_files/figure-html/unnamed-chunk-10-32.png" width="672" /></p>
-<pre><code>## 
-## [[15]]</code></pre>
-<p><img src="mos2128_files/figure-html/unnamed-chunk-10-33.png" width="672" /></p>
-<pre><code>## 
-## [[16]]</code></pre>
-<p><img src="mos2128_files/figure-html/unnamed-chunk-10-34.png" width="672" /></p>
-<pre><code>## 
-## [[17]]</code></pre>
-<p><img src="mos2128_files/figure-html/unnamed-chunk-10-35.png" width="672" /></p>
-<pre><code>## 
-## [[18]]</code></pre>
-<p><img src="mos2128_files/figure-html/unnamed-chunk-10-36.png" width="672" /></p>
+<p><img src="mos2128_files/figure-html/unnamed-chunk-11-2.png" width="672" /></p>
+<pre class="r"><code>plots[17]</code></pre>
+<pre><code>## [[1]]</code></pre>
+<p><img src="mos2128_files/figure-html/unnamed-chunk-11-3.png" width="672" /></p>
+<pre class="r"><code>plots[18]</code></pre>
+<pre><code>## [[1]]</code></pre>
+<p><img src="mos2128_files/figure-html/unnamed-chunk-11-4.png" width="672" /></p>
+<p>National Historic Sites, National Memorials, National Battlefield
+Parks, International Historic Sites all had no faceted average visits.
+These four park types do not have any
+<code>rv_campers,</code>backcountry<code>or</code>tent_campers`.</p>
+</div>
+<div id="only-backcountry-visitation" class="section level2">
+<h2>Only Backcountry Visitation</h2>
+<pre class="r"><code>plots[16]</code></pre>
+<pre><code>## [[1]]</code></pre>
+<p><img src="mos2128_files/figure-html/unnamed-chunk-12-1.png" width="672" /></p>
+<pre class="r"><code>plots[15]</code></pre>
+<pre><code>## [[1]]</code></pre>
+<p><img src="mos2128_files/figure-html/unnamed-chunk-12-2.png" width="672" /></p>
+<pre class="r"><code>plots[6]</code></pre>
+<pre><code>## [[1]]</code></pre>
+<p><img src="mos2128_files/figure-html/unnamed-chunk-12-3.png" width="672" /></p>
+<p><code>National Reserve</code> only had backcountry visitation in
+spring. <code>National Military Park</code> had backcountry visitation
+in all seasons, with mean visitation being highest in spring.
+<code>National Battlefield</code> had backcountry visitation in all
+seasons, with mean visitation being lowest in summer and highest in
+spring.</p>
+</div>
+<div id="no-rv-visitation" class="section level2">
+<h2>No RV Visitation</h2>
+<pre class="r"><code>plots[13]</code></pre>
+<pre><code>## [[1]]</code></pre>
+<p><img src="mos2128_files/figure-html/unnamed-chunk-13-1.png" width="672" /></p>
+<p>National Wild and Scienic River has <code>backcountry</code> and
+<code>tent</code> visitation, no <code>rv</code> visitation.
+Interestingly though, the mean <code>tent</code> visitation is low for
+all seasons, with a slight peak in summer.</p>
+</div>
+<div id="section" class="section level2">
+<h2></h2>
+<pre class="r"><code>plots[14]</code></pre>
+<pre><code>## [[1]]</code></pre>
+<p><img src="mos2128_files/figure-html/unnamed-chunk-14-1.png" width="672" /></p>
+<p>This plot was interesting because the park type
+<code>Park (Other)</code> has high <code>tent</code> mean visitation,
+<code>rv</code> visitation, but low <code>backcountry</code> visitation.
+It is the highest in spring and summer.</p>
 <p>map of all national parks in US</p>
 <pre class="r"><code>leaflet(data = NPS_data) %&gt;% 
   addTiles() %&gt;% 
   addMarkers(~longitude, ~latitude) %&gt;%
   setView(lng = -98.583, lat = 39.828, zoom = 4)</code></pre>
-<p>Average visitation by type and park_type (separate graph for each
-park_type)</p>
-<p>Regional Comparisons</p>
+</div>
+</div>
+<div id="regional-comparisons" class="section level1">
+<h1>Regional Comparisons</h1>
 <pre class="r"><code>region_data &lt;- visitation_data %&gt;% 
   mutate(region = case_when(
     state %in% c(&quot;CT&quot;, &quot;RI&quot;, &quot;NH&quot;, &quot;VT&quot;, &quot;NJ&quot;, &quot;NY&quot;, &quot;PA&quot;, &quot;MD&quot;, &quot;ME&quot;, &quot;MA&quot;) ~ &quot;northeast&quot;, 
@@ -1191,7 +1126,8 @@ park_type)</p>
     state %in% c(&quot;VI&quot;, &quot;AS&quot;, &quot;GU&quot;, &quot;PR&quot;) ~ &quot;u.s. territory&quot;,
     state == TRUE ~ &quot;no state data&quot;
   )) %&gt;% select(c(-full_name.y, -topics_id, -topics_name, -activities_id))</code></pre>
-<p>Northeast</p>
+<div id="northeast" class="section level2">
+<h2>Northeast</h2>
 <pre class="r"><code>region_data %&gt;%
   filter(region == &quot;northeast&quot;) %&gt;% drop_na() %&gt;% 
   distinct(park_type) %&gt;% knitr::kable()</code></pre>
@@ -1276,8 +1212,10 @@ park_type)</p>
       values_to = &quot;mean&quot;, 
       names_prefix = &quot;mean_&quot;
     ) %&gt;% ggplot(aes(x = season, y = mean)) + geom_col() +  facet_grid(~type_visit)</code></pre>
-<p><img src="mos2128_files/figure-html/unnamed-chunk-14-1.png" width="672" /></p>
-<p>Midwest</p>
+<p><img src="mos2128_files/figure-html/unnamed-chunk-18-1.png" width="672" /></p>
+</div>
+<div id="midwest" class="section level2">
+<h2>Midwest</h2>
 <pre class="r"><code>region_data %&gt;%
   filter(region == &quot;midwest&quot;) %&gt;%
   drop_na() %&gt;% 
@@ -1360,8 +1298,10 @@ park_type)</p>
       values_to = &quot;mean&quot;, 
       names_prefix = &quot;mean_&quot;
     ) %&gt;% ggplot(aes(x = season, y = mean)) + geom_col() +  facet_grid(~type_visit)</code></pre>
-<p><img src="mos2128_files/figure-html/unnamed-chunk-15-1.png" width="672" /></p>
-<p>South</p>
+<p><img src="mos2128_files/figure-html/unnamed-chunk-19-1.png" width="672" /></p>
+</div>
+<div id="south" class="section level2">
+<h2>South</h2>
 <pre class="r"><code>region_data %&gt;%
   filter(region == &quot;south&quot;) %&gt;%
   drop_na() %&gt;% 
@@ -1458,8 +1398,10 @@ park_type)</p>
       values_to = &quot;mean&quot;, 
       names_prefix = &quot;mean_&quot;
     ) %&gt;% ggplot(aes(x = season, y = mean)) + geom_col() +  facet_grid(~type_visit)</code></pre>
-<p><img src="mos2128_files/figure-html/unnamed-chunk-16-1.png" width="672" /></p>
-<p>west</p>
+<p><img src="mos2128_files/figure-html/unnamed-chunk-20-1.png" width="672" /></p>
+</div>
+<div id="west" class="section level2">
+<h2>West</h2>
 <pre class="r"><code>region_data %&gt;% filter(region == &quot;west&quot;) %&gt;% drop_na() %&gt;% 
   distinct(park_type) %&gt;% knitr::kable()</code></pre>
 <table>
@@ -1538,8 +1480,8 @@ park_type)</p>
     ) %&gt;% ggplot(aes(x = season, y = mean)) + 
   geom_col() +  
   facet_grid(~type_visit)</code></pre>
-<p><img src="mos2128_files/figure-html/unnamed-chunk-17-1.png" width="672" /></p>
-<p>Comparing Regions</p>
+<p><img src="mos2128_files/figure-html/unnamed-chunk-21-1.png" width="672" /></p>
+<p>#Comparing Regions</p>
 <pre class="r"><code>region_data %&gt;% group_by(region) %&gt;% 
   summarize(avg_visitation = mean(recreation_visits, na.rm = TRUE)) %&gt;% 
   arrange(desc(avg_visitation))</code></pre>
@@ -1569,7 +1511,7 @@ region_data %&gt;%
     values_to = &quot;mean&quot;,
     names_prefix = &quot;mean_&quot;
   ) %&gt;% ggplot(aes(x = region, y = mean)) + geom_col() + facet_grid(~type_visit) + theme(axis.text.x = element_text(angle = 90, vjust = 0.5, hjust=1))</code></pre>
-<p><img src="mos2128_files/figure-html/unnamed-chunk-18-1.png" width="672" /></p>
+<p><img src="mos2128_files/figure-html/unnamed-chunk-22-1.png" width="672" /></p>
 <pre class="r"><code>region_data %&gt;% 
   filter(region == &quot;u.s. territory&quot;) %&gt;% 
   distinct(activities_name) </code></pre>
@@ -1629,6 +1571,7 @@ region_data %&gt;%
 </tr>
 </tbody>
 </table>
+</div>
 </div>
 
 
